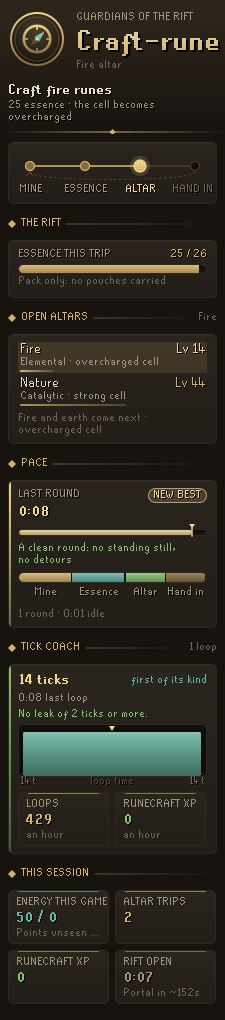
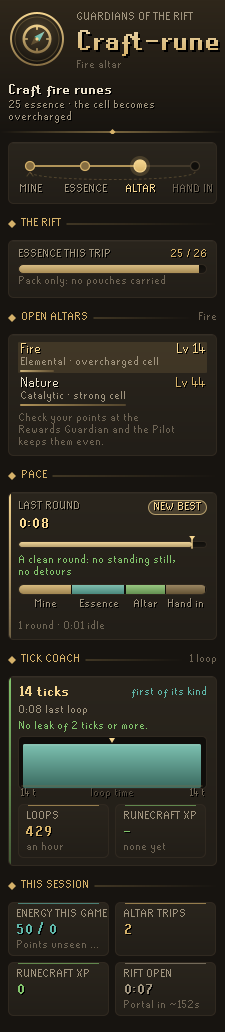
Rift panel: whole points as the game reports them, and the balance said once
Points are shown banked and whole, as the Rewards Guardian's check and the
end-of-game message give them, with this game's energy as "+4-5" (every 100
energy a point, the rest a chance of one more). The open-altars card now says
which point runs out first instead of repeating the step's reason, and the
reason drops its figures. The tick coach shows no experience rate until a loop
has gained some, so it never reads 0 beside experience gained.

diff --git a/src/main/java/com/codex/minigamepilot/pilot/RiftPilot.java b/src/main/java/com/codex/minigamepilot/pilot/RiftPilot.java
@@ -454,7 +454,7 @@ public final class RiftPilot
 			view.gauge(new View.Gauge("Essence this trip", carried, 0, tripRoom,
 				pouches.ids.length == 0 ? "Pack only: no pouches carried" : pouches.stored + " in pouches", Theme.GOLD));
 		}
-		view.pick(altarCard(choice, s));
+		view.pick(altarCard(choice, balanceLine()));
 		balance(view);
 		view.stat(new View.Stat(Integer.toString(trips), "Altar trips", session.perHour(trips, now), Theme.GOLD));
 		int xp = session.xp(client);
@@ -585,7 +585,7 @@ public final class RiftPilot
 	}
 
 	/** The open altars, which is yours and why, for the panel. */
-	private static View.PickCard altarCard(AltarPick.Choice choice, RiftCycle.Snapshot s)
+	private static View.PickCard altarCard(AltarPick.Choice choice, String note)
 	{
 		if (choice.open.isEmpty())
 		{
@@ -600,10 +600,13 @@ public final class RiftPilot
 			picks.add(new View.Pick(o.altar.rune(), "Lv " + o.altar.level(), detail, o.locked == null, o.altar == choice.altar,
 				o.altar.level() / 77.0, false));
 		}
-		return new View.PickCard("Open altars", choice.altar == null ? "None for you" : choice.altar.rune(), choice.why, picks);
+		return new View.PickCard("Open altars", choice.altar == null ? "None for you" : choice.altar.rune(), note, picks);
 	}
 
-	/** Your points of each type, banked and on the way, and which needs the next trip. */
+	/**
+	 * Your points of each type in whole points, as the Rewards Guardian's Check and the end of a
+	 * game report them, with what this game's energy is on its way to.
+	 */
 	private void balance(View view)
 	{
 		if (!points.known())
@@ -613,12 +616,34 @@ public final class RiftPilot
 			view.stat(new View.Stat(ge + " / " + gc, "Energy this game", "Points unseen yet", Theme.TEAL));
 			return;
 		}
-		double e = points.elemental();
-		double c = points.catalytic();
-		String lead = Math.abs(e - c) < 0.5 ? "Even" : (e < c ? "Elemental" : "Catalytic") + " lags";
-		view.stat(new View.Stat(RiftPoints.show(e), "Elemental points", points.gameElemental() > 0 ? "+" + points.gameElemental() + " this game" : "Banked", Theme.TEAL));
-		view.stat(new View.Stat(RiftPoints.show(c), "Catalytic points", points.gameCatalytic() > 0 ? "+" + points.gameCatalytic() + " this game" : "Banked", Theme.GOLD_BRIGHT));
-		view.stat(new View.Stat(Session.format((long) Math.floor(Math.min(e, c))), "Searches", lead, Theme.GOLD));
+		int ge = points.gameElemental();
+		int gc = points.gameCatalytic();
+		view.stat(new View.Stat(RiftPoints.show(points.bankedElemental()), "Elemental points",
+			ge > 0 ? RiftPoints.coming(ge) + " this game" : "Banked", Theme.TEAL));
+		view.stat(new View.Stat(RiftPoints.show(points.bankedCatalytic()), "Catalytic points",
+			gc > 0 ? RiftPoints.coming(gc) + " this game" : "Banked", Theme.GOLD_BRIGHT));
+		view.stat(new View.Stat(Session.format(points.searches()), "Searches", "1 of each", Theme.GOLD));
+	}
+
+	/** Which point runs out first, said plainly, for under the open altars; null when even. */
+	private String balanceLine()
+	{
+		if (!points.known())
+		{
+			return "Check your points at the Rewards Guardian and the Pilot keeps them even.";
+		}
+		int e = points.bankedElemental();
+		int c = points.bankedCatalytic();
+		String game = points.gameElemental() > 0 || points.gameCatalytic() > 0
+			? " This game adds about " + points.gameElemental() / 100 + " and " + points.gameCatalytic() / 100
+			+ ", each remainder a chance of one more." : "";
+		if (e == c)
+		{
+			return "Points even: " + Session.format(e) + " searches." + game;
+		}
+		String low = e < c ? "Elemental" : "Catalytic";
+		return low + " runs out first: " + Session.format(Math.min(e, c)) + " searches, "
+			+ Session.format(Math.abs(e - c)) + " " + (e < c ? "catalytic" : "elemental") + " to spare." + game;
 	}
 
 	/** How long the rift has been open, "2:15", or null when not known. */

diff --git a/src/main/java/com/codex/minigamepilot/core/AltarPick.java b/src/main/java/com/codex/minigamepilot/core/AltarPick.java
@@ -112,8 +112,8 @@ public final class AltarPick
 			{
 				Altar a = pe < pc ? e : c;
 				Altar.Alignment low = a.alignment();
-				return new Choice(a, "Fewer " + low.word() + " points: " + Math.round(Math.min(pe, pc))
-					+ " to " + Math.round(Math.max(pe, pc)) + cell(a), open);
+				// The figures are on the panel, banked and this game's apart, as the game reports them.
+				return new Choice(a, "Fewer " + low.word() + " points" + cell(a), open);
 			}
 			Altar a = e.level() >= c.level() ? e : c;
 			return new Choice(a, "Points even, so the stronger cell" + cell(a), open);

diff --git a/src/main/java/com/codex/minigamepilot/ui/PilotPanel.java b/src/main/java/com/codex/minigamepilot/ui/PilotPanel.java
@@ -367,7 +367,7 @@ public class PilotPanel extends PluginPanel
 		JPanel tiles = new JPanel(new GridLayout(1, 2, 6, 0));
 		tiles.setOpaque(false);
 		tiles.add(new StatTile(Figures.count(t.perHour), "Loops", "an hour", Theme.GOLD));
-		tiles.add(new StatTile(t.xpPerHour < 0 ? "-" : Figures.count(t.xpPerHour), t.xpLabel, "an hour", Theme.GREEN));
+		tiles.add(new StatTile(t.xpPerHour < 0 ? "-" : Figures.count(t.xpPerHour), t.xpLabel, t.xpPerHour < 0 ? "none yet" : "an hour", Theme.GREEN));
 		stack.add(tiles);
 		card.add(stack, BorderLayout.CENTER);
 		return card;

diff --git a/src/main/java/com/codex/minigamepilot/core/Loops.java b/src/main/java/com/codex/minigamepilot/core/Loops.java
@@ -89,7 +89,8 @@ public final class Loops
 
 	/**
 	 * Experience an hour while looping, over the loops whose experience is known, or -1 when
-	 * none is.
+	 * none is or none of them gained any yet (a rate of 0 beside experience gained between
+	 * loops would read as a contradiction).
 	 */
 	public long xpPerHour()
 	{
@@ -103,7 +104,7 @@ public final class Loops
 				t += r.ticks;
 			}
 		}
-		return t == 0 ? -1 : Math.round(xp * 3600 / (t * TICK_SECONDS));
+		return t == 0 || xp <= 0 ? -1 : Math.round(xp * 3600 / (t * TICK_SECONDS));
 	}
 
 	/**

diff --git a/src/main/java/com/codex/minigamepilot/core/RiftPoints.java b/src/main/java/com/codex/minigamepilot/core/RiftPoints.java
@@ -130,6 +130,16 @@ public final class RiftPoints
 		}
 	}
 
+	/**
+	 * What this game's energy of a type comes to as the game pays it: one point per whole 100,
+	 * and a chance of one more as the remainder is of 100 (OSRS wiki). "+4" or "+4-5".
+	 */
+	public static String coming(int energy)
+	{
+		int whole = Math.max(0, energy) / 100;
+		return energy % 100 > 0 ? "+" + whole + "-" + (whole + 1) : "+" + whole;
+	}
+
 	/** Searches the banked points pay for: the fewer of the two. */
 	public int searches()
 	{

diff --git a/src/test/java/com/codex/minigamepilot/core/AltarPickTest.java b/src/test/java/com/codex/minigamepilot/core/AltarPickTest.java
@@ -30,7 +30,7 @@ public class AltarPickTest
 		assertEquals(Altar.WATER, AltarPick.choose(Altar.WATER, Altar.NATURE, 99, q -> true, points(10, 40)).altar);
 		AltarPick.Choice c = AltarPick.choose(Altar.WATER, Altar.NATURE, 99, q -> true, points(40, 10));
 		assertEquals(Altar.NATURE, c.altar);
-		assertTrue(c.why, c.why.startsWith("Fewer catalytic points: 10 to 40"));
+		assertTrue(c.why, c.why.startsWith("Fewer catalytic points · strong cell"));
 	}
 
 	@Test

diff --git a/src/test/java/com/codex/minigamepilot/core/RiftPointsTest.java b/src/test/java/com/codex/minigamepilot/core/RiftPointsTest.java
@@ -62,6 +62,14 @@ public class RiftPointsTest
 	}
 
 	@Test
+	public void energyComesAsWholePointsAndAChance()
+	{
+		assertEquals("+4-5", RiftPoints.coming(470));
+		assertEquals("+3", RiftPoints.coming(300));
+		assertEquals("+0-1", RiftPoints.coming(73));
+	}
+
+	@Test
 	public void figures()
 	{
 		assertEquals("1,204", RiftPoints.show(1204));

diff --git a/README.md b/README.md
@@ -38,7 +38,7 @@ It is part of the **Codex** suite of RuneLite plugins and shares their look: war
 - **One step through the whole game.** Take uncharged cells, wait for the rift, mine fragments, craft essence at the workbench, fill your pouches, enter the altar, craft, empty the pouches and craft again, take the portal back, power up the Great Guardian with your stones, place the charged cell, deposit the runes, and round again. Each one is lit in the world with its path and a line of why.
 - **Fragments sized to the trip.** At the start of a game it mines to 120 fragments before the first craft, as the wiki's general strategy does (a setting). After that it mines only what one trip needs: the free slots in your pack and the room in your pouches, read from the pouches themselves.
 - **The right altar for you, not just the open one.** Of the two open altars it never picks one your Runecraft level or your quests shut you out of (cosmic needs Lost City, law Troll Stronghold, death Mourning's End Part II, blood Sins of the Father), and it says so: "The death altar is not yours yet". Of those you can use it follows the wiki's rule for even points: blood and death first, then fire and earth, otherwise the type you have fewer points of.
-- **Your points, kept even.** It reads your elemental and catalytic points when you check the Rewards Guardian and from the totals at the end of each game, takes one of each off for every search, and adds what this game's energy is worth so far. The panel shows both, the searches they pay for, and which one lags. Until it has seen your points it says so rather than guessing, and picks the stronger cell instead.
+- **Your points, kept even.** It reads your elemental and catalytic points when you check the Rewards Guardian and from the totals at the end of each game, takes one of each off for every search, and adds what this game's energy is worth so far. The panel shows both in whole points, as the game reports them, with what this game's energy will add (every 100 energy is a point, and the rest is a chance of one more), the searches they pay for, and which one runs out first. Until it has seen your points it says so rather than guessing, and picks the stronger cell instead.
 - **The rift's clock.** How long the rift has been open, the guardian's power, and when the next portal to the huge guardian remains is about due (the first about 160 seconds in, then every 140, as the wiki has it). When that portal is open and your trip still needs essence, the step is to take it.
 
 <p align="center">
